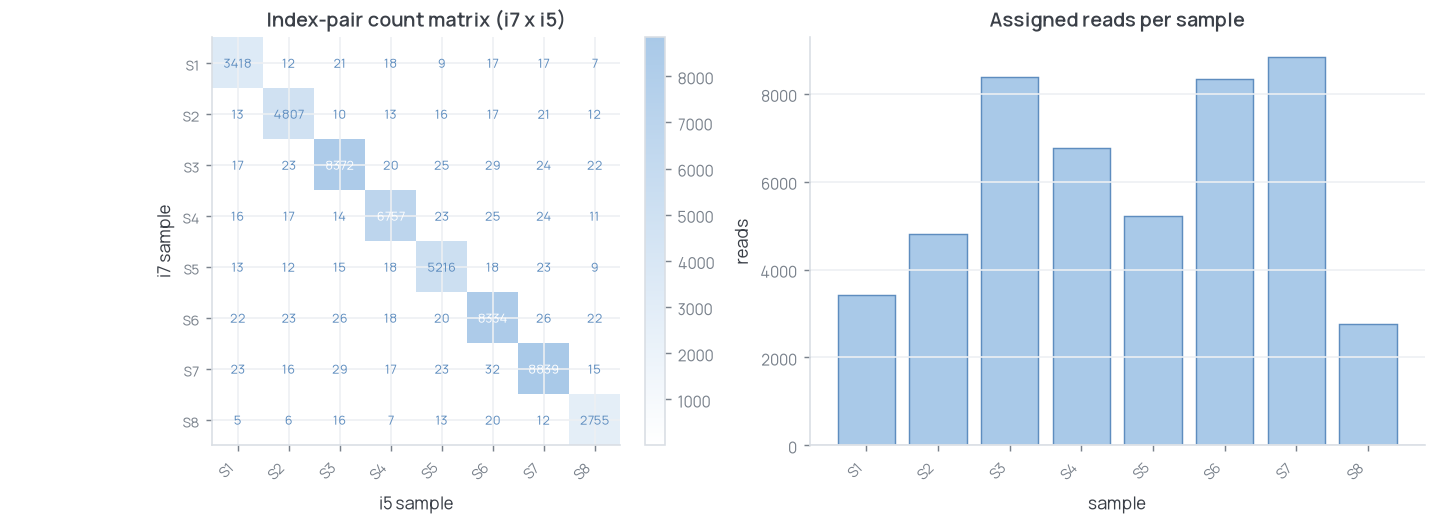
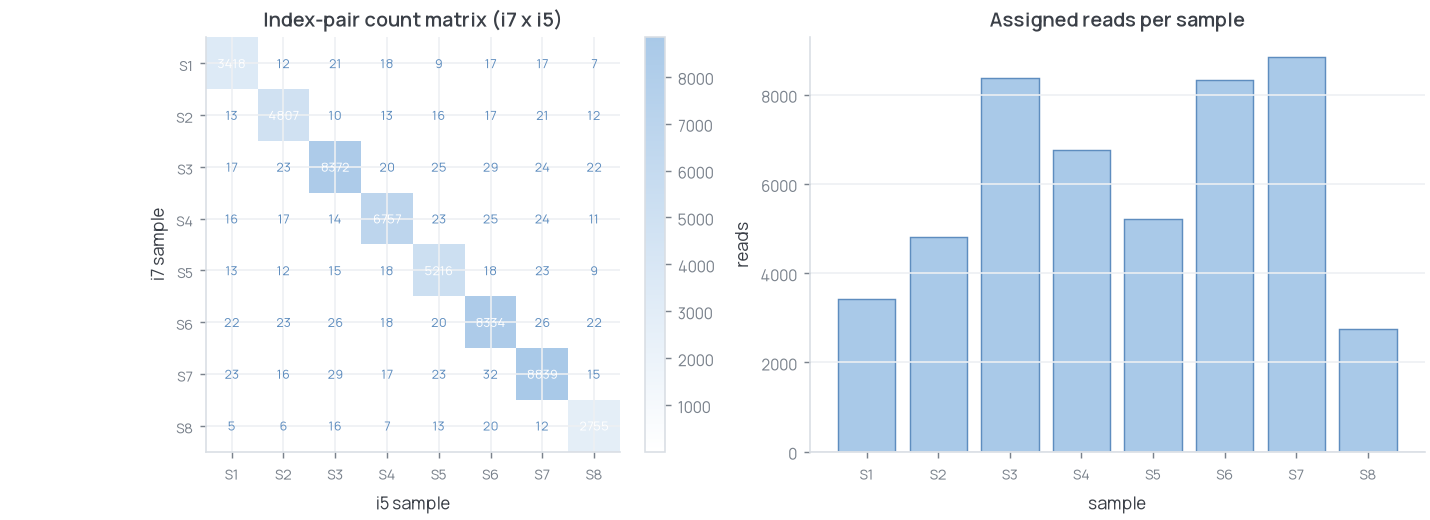
clean up demux-index-hopping figure: horizontal labels, white text on diagonal

diff --git a/demux-index-hopping/plots.py b/demux-index-hopping/plots.py
@@ -31,9 +31,9 @@ def main():
             v = int(vals[i, j])
             if v > 0:
                 ax[0].text(j, i, str(v), ha="center", va="center", fontsize=7,
-                           color=S.OUTLINE["blue"] if v < vals.max() * 0.6 else "white")
+                           color="white" if i == j else S.OUTLINE["blue"])
     ax[0].set_xticks(range(n)); ax[0].set_yticks(range(n))
-    ax[0].set_xticklabels(mat.columns, rotation=45, ha="right", fontsize=8)
+    ax[0].set_xticklabels(mat.columns, fontsize=8)
     ax[0].set_yticklabels(mat.index, fontsize=8)
     ax[0].set_xlabel("i5 sample"); ax[0].set_ylabel("i7 sample")
     ax[0].set_title("Index-pair count matrix (i7 x i5)")
@@ -44,7 +44,7 @@ def main():
     ax[1].bar(x, per_sample.assigned_reads,
               color=S.PALETTE["blue"], edgecolor=S.OUTLINE["blue"], linewidth=0.8)
     ax[1].set_xticks(list(x))
-    ax[1].set_xticklabels(per_sample["sample"], rotation=45, ha="right", fontsize=8)
+    ax[1].set_xticklabels(per_sample["sample"], fontsize=8)
     ax[1].set(title="Assigned reads per sample", ylabel="reads", xlabel="sample")
     ax[1].grid(axis="x", visible=False)
 